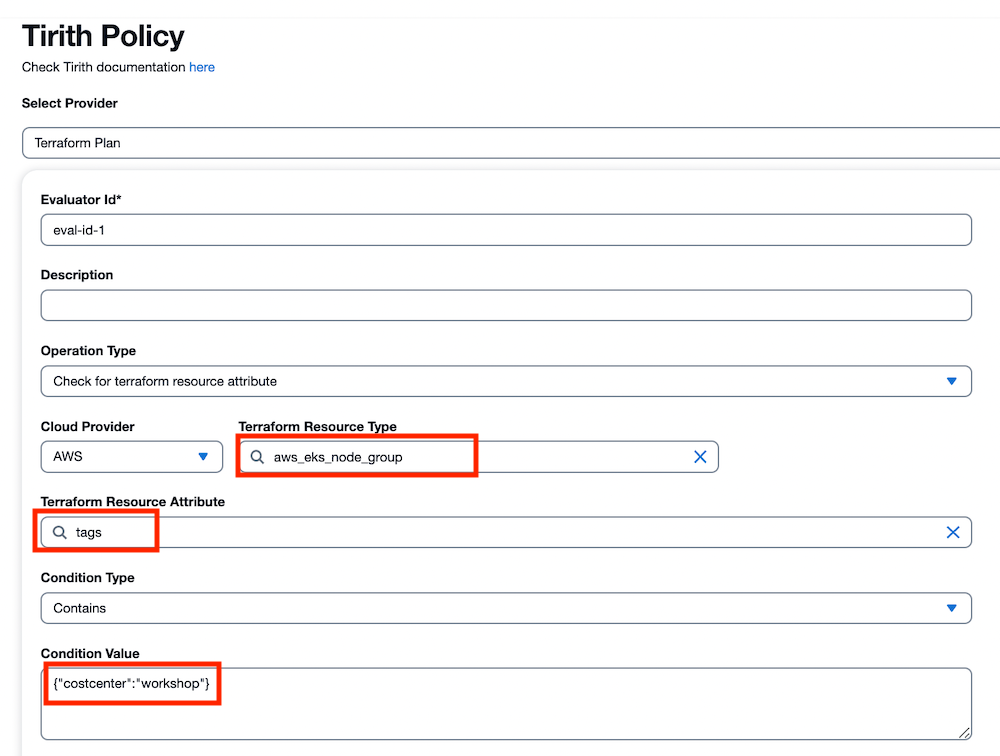
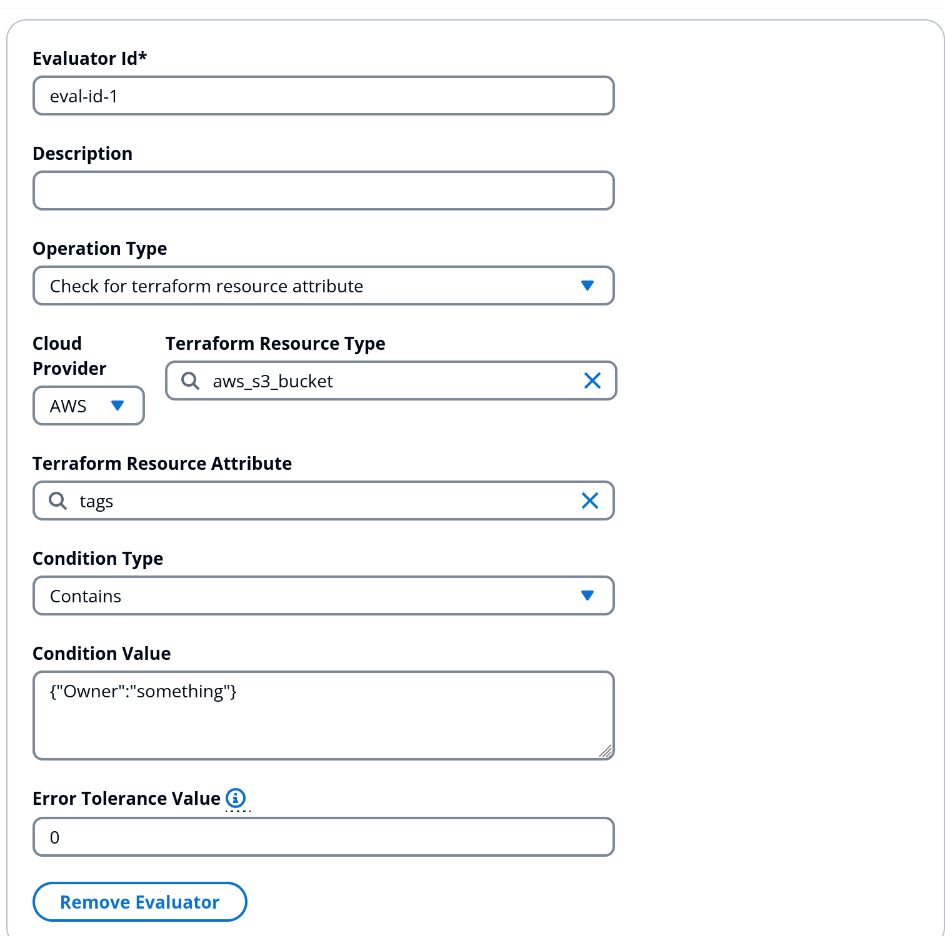
Add more explanation

diff --git a/README.md b/README.md
@@ -12,8 +12,9 @@ Time: 1 - 2 hours
 -   Use Case: Guardrailing cloud cost
 -   Tirith on StackGuardian platform
 
-Purpose:
--   Be able to understand and advocate Tirith
+
+## Expected outcome:
+-   Be able to understand and advocate for Tirith
 -   Be able to contribute to Tirith Roadmap
 
 ## Introduction to Tirith
@@ -23,15 +24,13 @@ Time: 15 minutes
 In this section, you will learn about:
 
 -   What Tirith is about
-
 -   Why are we doing Tirith
-
 -   Philosophy of Tirith
 
 ### What is Tirith?
 
 -   Tirith scans declarative Infrastructure as Code (IaC) configurations like Terraform against policies defined using JSON.
--   Tirith is a **declarative** policy engine, not imperative.
+-   Tirith is a **declarative** policy engine, not imperative. So it is decoupled.
 -   Currently, the focus is more to be a **proactive** policy evaluator than **reactive**.
 -   It is a CLI-based program, but can also be used as a Python library
 
@@ -42,16 +41,16 @@ In this section, you will learn about:
 -   Even with current engines there are still manual approvals needed
     ending up in ticketing systems
 -   Hardcoded IaC, you need several code bases
--   Policies are not going beyond resources configuration! Why not going 
+-   Policies are not going beyond resources configuration! Why not going
     to cost or even CI/CD definitions?
 
-[TODO: Add more explanations and Terraform examples]{.mark}
-
-Imagine that in an organisation, you have an IaC codebase and you want
+Imagine that in an organisation, you have a lot of IaC codebases and you want
 to ensure that every **aws_lambda_function** inside the codebase has
-memory set to 128 or even lower than 128.
+memory set to 128 or even lower than 128. With one same Tirith policy, we can do evaluations on any IaC codebases.
 
 ### Philosophy of Tirith
+
+The name is from Minas Tirith, some kind of fort or castle in the Lord of the Rings. The idea is that Tirith is a fort that guards your infrastructure.
 
 To run Tirith, the user has to provide two files: the input, and the
 policy. Tirith will then evaluate the policy against the input, and then
@@ -71,7 +70,6 @@ Internally, more or less, Tirith works like this:
 Example of a Tirith policy to make sure that:
 
 -   AWS VPC instance_tenancy is \"default\"
-
 -   EC2 instance cannot be destroyed
 ```json
 {
@@ -106,7 +104,6 @@ Example of a Tirith policy to make sure that:
   ],
   "eval_expression": "check_ec2_tenancy && !destroy_ec2"
 }
-
 ```
 
 1.  When input and policy file goes into Tirith, Tirith will use the
@@ -133,12 +130,11 @@ In this section, we will take a look on how we can use Tirith to
 guardrail a JSON input.
 
 You will learn about:
-
 -   Tirith CLI command to evaluate a policy against an input
-
 -   Tirith JSON provider
-
 -   Tirith error tolerance
+
+Here, we will create a simple authorization example with Tirith JSON provider.
 
 ### Preparation
 
@@ -219,21 +215,16 @@ tirith -input-path input.json -policy-path policy.json
 Explanation:
 
 -   **tirith**:
-
     -   This is the command to run the Tirith program, which is part of
          the StackGuardian Policy Framework.
 
 -   **-input-path input.json**:
-
     -   The -input-path option specifies the path to the input file.
-
     -   input.json is the file that contains the input data to be
          scanned by Tirith.
 
 -   **-policy-path policy.json**:
-
     -   The -policy-path option specifies the path to the policy file.
-
     -   policy.json is the file that contains the policies (rules)
          defined in Tirith\'s policy as code.
 
@@ -286,6 +277,8 @@ By setting the **error_tolerance** value to 2 or more inside the
 **condition** key in the evaluator, it will mark the evaluator as
 Skipped instead of Failed.
 
+Let's try to add a `error_tolerance` on the first evaluator and then rerun the evaluation to see what will happen.
+
 ## Use Case: Guardrailing Terraform deployment
 
 Time: 10 minutes
@@ -294,9 +287,7 @@ In this section, we will take a look on how we can use Tirith to
 guardrail a Terraform deployment to make sure that S3 is private.
 
 You will learn about:
-
 -   A little bit about terraform plan file
-
 -   `stackguardian/terraform_plan` provider (real capability of a
      provider)
 
@@ -307,7 +298,7 @@ first to see what are the changes that will be made when we do
 "terraform apply". So it's like "dry-run" only to see whether the
 changes are aligned to what we expect or not.
 
-In essence, we can generate a terraform plan file by using the following
+We can generate a terraform plan file by using the following
 command:
 
 ```sh
@@ -318,24 +309,19 @@ terraform plan -out plan.bin && terraform show -json plan.bin | jq > plan.json
 Explanation:
 
 -   terraform plan -out plan.bin:
-
     -   Creates an execution plan and saves it to plan.bin.
 
 -   &&:
-
     -   Ensures the next command runs only if the previous command is
          successful.
 
 -   terraform show -json plan.bin:
-
     -   Converts the execution plan in plan.bin to JSON format.
 
 -   \| jq:
-
     -   Processes and pretty-prints the JSON output.
 
 -   \> plan.json:
-
     -   Redirects the output to a file named plan.json.
 
 The generated plan.json file contains information about what plan will
@@ -394,7 +380,7 @@ Explanation:
 
     -   The result of this operation type is boolean
 
-**input.json: Available on the workshop repo**
+**input.json: Available on the inputs directory**
 
 Let's try to run the evaluation!
 
@@ -402,21 +388,18 @@ Let's try to run the evaluation!
 
 Time: 10 minutes
 
-In this section, we will take a look on how we can use Tirith to make
-sure that aws_s3_instance usage per month is lower than 300 USD.
+In this section, we will take a look on how we can use Tirith to guardrail cost usage by using `stackguardian/infracost` provider.
+For example, we can make sure that the usage per month of `aws_redshit_cluster` does not exceed 30 USD.
 
 You will learn about:
-
 -   A little bit about the infracost json file
-
 -   Tirith Infracost provider
 
 ### Infracost JSON file
 
 Infracost is a tool that can predict cost from a Terraform
-configuration. This tool has an option to get the JSON output by using
-the ... command. We can then use the JSON file resulting from the
-infracost tool as an input for stackguardian/infracost provider.
+IaC codebase. This tool has an option to get the JSON output. We can then use the JSON file resulting from the
+Infracost tool as an input for stackguardian/infracost provider.
 
 The structure of the JSON file can be found here:
 [https://www.infracost.io/docs/features/json_output_format/](https://www.infracost.io/docs/features/json_output_format/)
@@ -429,8 +412,8 @@ to extract the information about total monthly cost and total hourly
 cost from the JSON output without writing a single code. More details
 are available in the appendix section.
 
-Let\'s use the infracost provider to make sure that aws S3 usages per
-month doesn\'t exceed 30 USD.
+Let's use the infracost provider to make sure that the usage per
+month of a Terraform code base does not exceed 30 USD.
 
 Here is the policy for doing that:
 ```json
@@ -448,11 +431,11 @@ Here is the policy for doing that:
                 "resource_type": [
                     "*"
                 ]
-            }
+            },
             "condition": {
                 "type": "LessThanEqualTo",
                 "value": 30
-            },
+            }
         }
     ],
     "eval_expression": "monthly_cost_below_30"
@@ -476,15 +459,30 @@ engine. For instance, a user can make a policy to make sure that monthly
 cost usage is lower than 100 USD, the policy then applied into a
 workflow, then when the user runs that workflow, it will evaluate first
 whether the policy is passing or failing, if it passes it will continue
-to run the workflow, otherwise it will not run the workflow
+to run the workflow, otherwise it will not run the workflow.
 
 You will learn about:
+-   Creating a Tirith policy with Terraform Plan provider with SG noCode interface
+-   Applying that policy into workflows in StackGuardian so that the policy will be evaluated before the workflow is executed
 
--   Creating a Tirith policy with Terraform Plan provider
+In this section, we will create a policy to make sure that a certain value is present in the tags of an AWS S3 bucket, then we will apply that policy into a workflow in StackGuardian Orchestrator.
 
--   Applying that policy into a workflow
+### Creating a workflow
+
+Let\'s create a workflow that creates EKS node group by using a
+template available in the marketplace:
+
+1. Create a workflow group
+
+2. In that workflow group, create a workflow by using Wizard -> Terraform
+
+3.  Use the `aws-s3-demo-website` template from the marketplace
+
+4.  Fill the remaining fields, connector, etc.
 
 ### Creating a Tirith policy to Guardrail aws_eks_node_group's tags
+
+Here we will create a Tirith Policy using SG NoCode interface and then apply that policy into the workflow that we have created before.
 
 1.  Go into the **Policies** section in the Orchestrator
 
@@ -492,10 +490,11 @@ You will learn about:
 
 3.  Fill the resource name with a descriptive name
 
-4.  Click on Settings \> Rules \> Add New Policy Rule
+4.  On the left hand side, click on the `Rules` section, then `Add New Policy Rule`
 
 5.  Fill the values like the image below
-
+![](./image4.png)
+After that, select on the `SG noCode`, and fill the values like the image below
 ![](./image3.png)
 
 Explanation
@@ -503,31 +502,28 @@ Explanation
 -   We are using the "attribute" operation type, which will get the
      "attribute" of the instances of resource type that's defined in
      the "resource_type"
-
     -   In this case, we are getting the values of the attribute "tags"
-         in the "aws_eks_node_group" resource type
+         in the "aws_s3_bucket" resource type
 
 -   In the condition type, we are using Contains, which will make sure
      that the result of the provider contains the value defined in the
      "Condition value"
-
     -   In this case, we are making sure that the output of the provider
-         contains the string '{"costcenter....'
+         contains the tag "Owner" with the value "something"
 
-### Creating a workflow
+6. On the left hand side, select the **Meta** section
+7. On the **Policy Enforcement** section, click **Choose** and then select the Workflow Group/Workflow that you want to apply the policy to
+8. Save the policy
 
-Let\'s try a dummy workflow that creates EKS node group by using a
-template available in the marketplace:
+### Running the workflow
 
-1.  Create a workflow
+In this section, we are going to run the previous workflow that we have created and see the result of the policy evaluation.
 
-2.  Select the aws eks node group template
+1. Go back to the previous workflow that we have created, and click on the **Run** button on the left hand side, and do **Quick Run** with the action `create`
 
-3.  Fill the fields
-
-### Applying the policy into a workflow
-
-Running the workflow
+2. After the workflow is executed, go to the **Compliance Checks** tab, and see the result of the policy evaluation
+![](./image5.png)
+Or you can also see it in the logs of the workflow run
 
 ## Appendix
 
